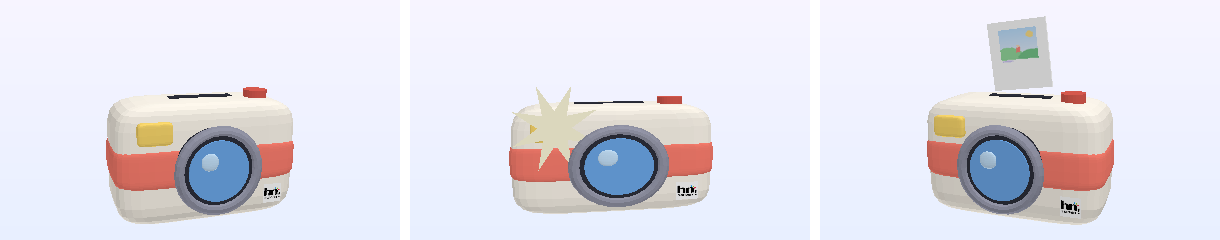
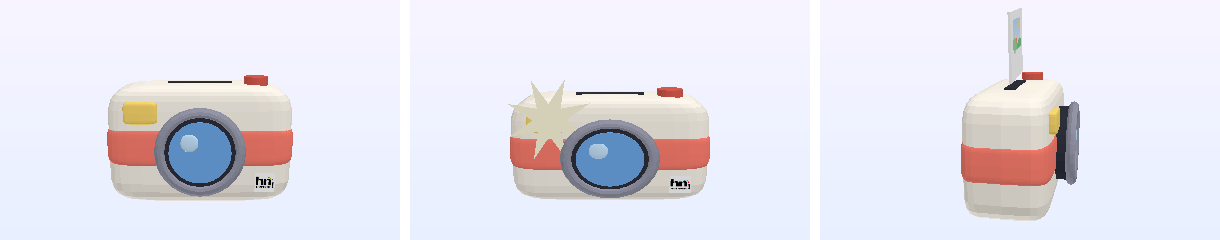
Hn screen ! : bannière qui tourne sur elle-même et bien cadrée, code du CIA non compressé (crash du loader), corrections
Claude-Session: https://claude.ai/code/session_01CUZp6Uc3XMSPxLDufzGHMQ

diff --git a/hn-screen/banner/make_banner.py b/hn-screen/banner/make_banner.py
@@ -286,9 +286,13 @@ def animate(name, t):
     """Pose (T, R, S) d'un nœud animé à l'instant t (secondes, 0..LOOP)."""
     dt = t - CLICK
     if name == "Camera":
-        yaw = 22 * math.sin(t / LOOP * 2 * math.pi)
-        tilt = 4 * math.sin(t / LOOP * 4 * math.pi)
-        return (0, 0, 0), qmul(qaxis((0, 1, 0), yaw), qaxis((1, 0, 0), tilt)), (1, 1, 1)
+        # de face pour le clic, puis un tour complet sur lui-même autour de son centre
+        start = CLICK + 0.7
+        if t < start:
+            return (0, 0.12 * math.sin(t / start * 2 * math.pi), 0), (0, 0, 0, 1), (1, 1, 1)
+        k = (t - start) / (LOOP - start)
+        k = k * k * (3 - 2 * k)
+        return (0, 0, 0), qaxis((0, 1, 0), 360.0 * k), (1, 1, 1)
     if name == "Squash":
         if 0 <= dt < 0.45:  # écrasé puis rebond
             k = dt / 0.45
@@ -327,22 +331,20 @@ def animate(name, t):
 
 
 def fit_to_camera(camera_path):
-    cam_t, cam_r, yfov = (0.0, 0.0, 40.0), (0, 0, 0, 1), math.radians(30)
+    """Place la scène au centre de l'image du menu HOME.
+
+    La caméra du menu HOME est en (0, 1, 44.8) et regarde vers -Z (champ vertical 30°,
+    plan proche à 26.5) : à l'origine, l'image fait ±12 unités de haut. On laisse donc la
+    scène à l'origine, à une échelle qui la fait remplir l'image sans être coupée."""
+    cam_y = 1.0
     if camera_path:
         g = json.load(open(camera_path))
-        cams = g.get("cameras", [])
         for n in g.get("nodes", []):
             if "camera" in n:
-                cam_t = tuple(n.get("translation", (0, 0, 0)))
-                cam_r = tuple(n.get("rotation", (0, 0, 0, 1)))
-                yfov = cams[n["camera"]].get("perspective", {}).get("yfov", yfov)
+                cam_y = n.get("translation", (0, 1, 0))[1]
                 break
-    fwd = qrot(cam_r, (0, 0, -1))
-    radius = 5.0  # demi-hauteur de la scène, photo comprise
-    dist = radius / math.tan(yfov / 2) * 1.12
-    center = tuple(cam_t[i] + fwd[i] * dist for i in range(3))
-    rot = qmul(cam_r, qaxis((1, 0, 0), 10))  # vue très légèrement plongeante
-    return center, rot, (1, 1, 1)
+    scale = 2.1  # l'appareil remplit bien l'image, la photo reste dans le cadre
+    return (0.0, cam_y + 1.2, 0.0), qaxis((1, 0, 0), 12), (scale, scale, scale)
 
 
 # ---------------------------------------------------------------------------

diff --git a/hn-screen/source/share.c b/hn-screen/source/share.c
@@ -206,7 +206,7 @@ static bool start_server(void)
     snprintf(S.url, sizeof(S.url), "http://%s:%d/", inet_ntoa(ip), LOCAL_PORT);
     snprintf(S.label, sizeof(S.label), "%s:%d", inet_ntoa(ip), LOCAL_PORT);
     S.stop = false;
-    S.thread = threadCreate(server_thread, NULL, 32 * 1024, 0x31, -1, false);
+    S.thread = threadCreate(server_thread, NULL, 64 * 1024, 0x31, -1, false);
     if (!S.thread) return false;
     S.threadRunning = true;
     S.state = SHARE_LOCAL;
@@ -344,7 +344,7 @@ bool share_start(const char *topPath, const char *botPath, bool localOnly)
     }
     S.state = SHARE_SENDING;
     S.stop = false;
-    S.thread = threadCreate(upload_thread, NULL, 128 * 1024, 0x31, -1, false);
+    S.thread = threadCreate(upload_thread, NULL, 512 * 1024, 0x31, -1, false);
     if (!S.thread) {
         share_go_local();
         return S.state == SHARE_LOCAL;

diff --git a/hn-screen/banner/preview.py b/hn-screen/banner/preview.py
@@ -80,9 +80,9 @@ def render(g, blob, t, texcache):
         Pw = (M @ np.c_[P, np.ones(len(P))].T).T[:, :3]
         Nw = (M[:3, :3] @ N.T).T
         Nw /= np.linalg.norm(Nw, axis=1, keepdims=True) + 1e-9
-        z = -Pw[:, 2] + 40  # caméra par défaut à z=+40
+        z = -Pw[:, 2] + 44.786  # caméra du menu HOME : (0, 1, 44.786)
         sx = (Pw[:, 0] / z * f * (H / 2)) + W / 2
-        sy = H / 2 - (Pw[:, 1] / z * f * (H / 2))
+        sy = H / 2 - ((Pw[:, 1] - 1.0) / z * f * (H / 2))
         for k in range(0, len(I), 3):
             a, b, c = I[k:k + 3]
             nrm = Nw[a]

diff --git a/hn-screen/source/main.c b/hn-screen/source/main.c
@@ -421,6 +421,8 @@ static void draw_bottom_album(void)
             ui_rrect(c->x - 3, y - 3, TH_W + 6, TH_H + 6, 5, C_BORDER);
             ui_rrect(c->x - 2, y - 2, TH_W + 4, TH_H + 4, 4, C_WHITE);
         }
+        s->thumb.img.tex = &s->thumb.tex;
+        s->thumb.img.subtex = &s->thumb.sub;
         if (s->thumbState == 1) C2D_DrawImageAt(s->thumb.img, c->x, y, 0.6f, NULL, TH_W / (float)THUMB_W, TH_H / (float)THUMB_H);
         else ui_rect(c->x, y, TH_W, TH_H, C_PLACE);
     }

diff --git a/hn-screen/source/titles.c b/hn-screen/source/titles.c
@@ -113,6 +113,11 @@ int titles_load(Title **out)
     }
     free(smdh);
     if (n) qsort(list, n, sizeof(Title), cmp_title);
+    // les entrées ont bougé (realloc, tri) : on refait pointer chaque image vers sa texture
+    for (int i = 0; i < n; i++) {
+        list[i].icon.img.tex = &list[i].icon.tex;
+        list[i].icon.img.subtex = &list[i].icon.sub;
+    }
     *out = list;
     return n;
 }
